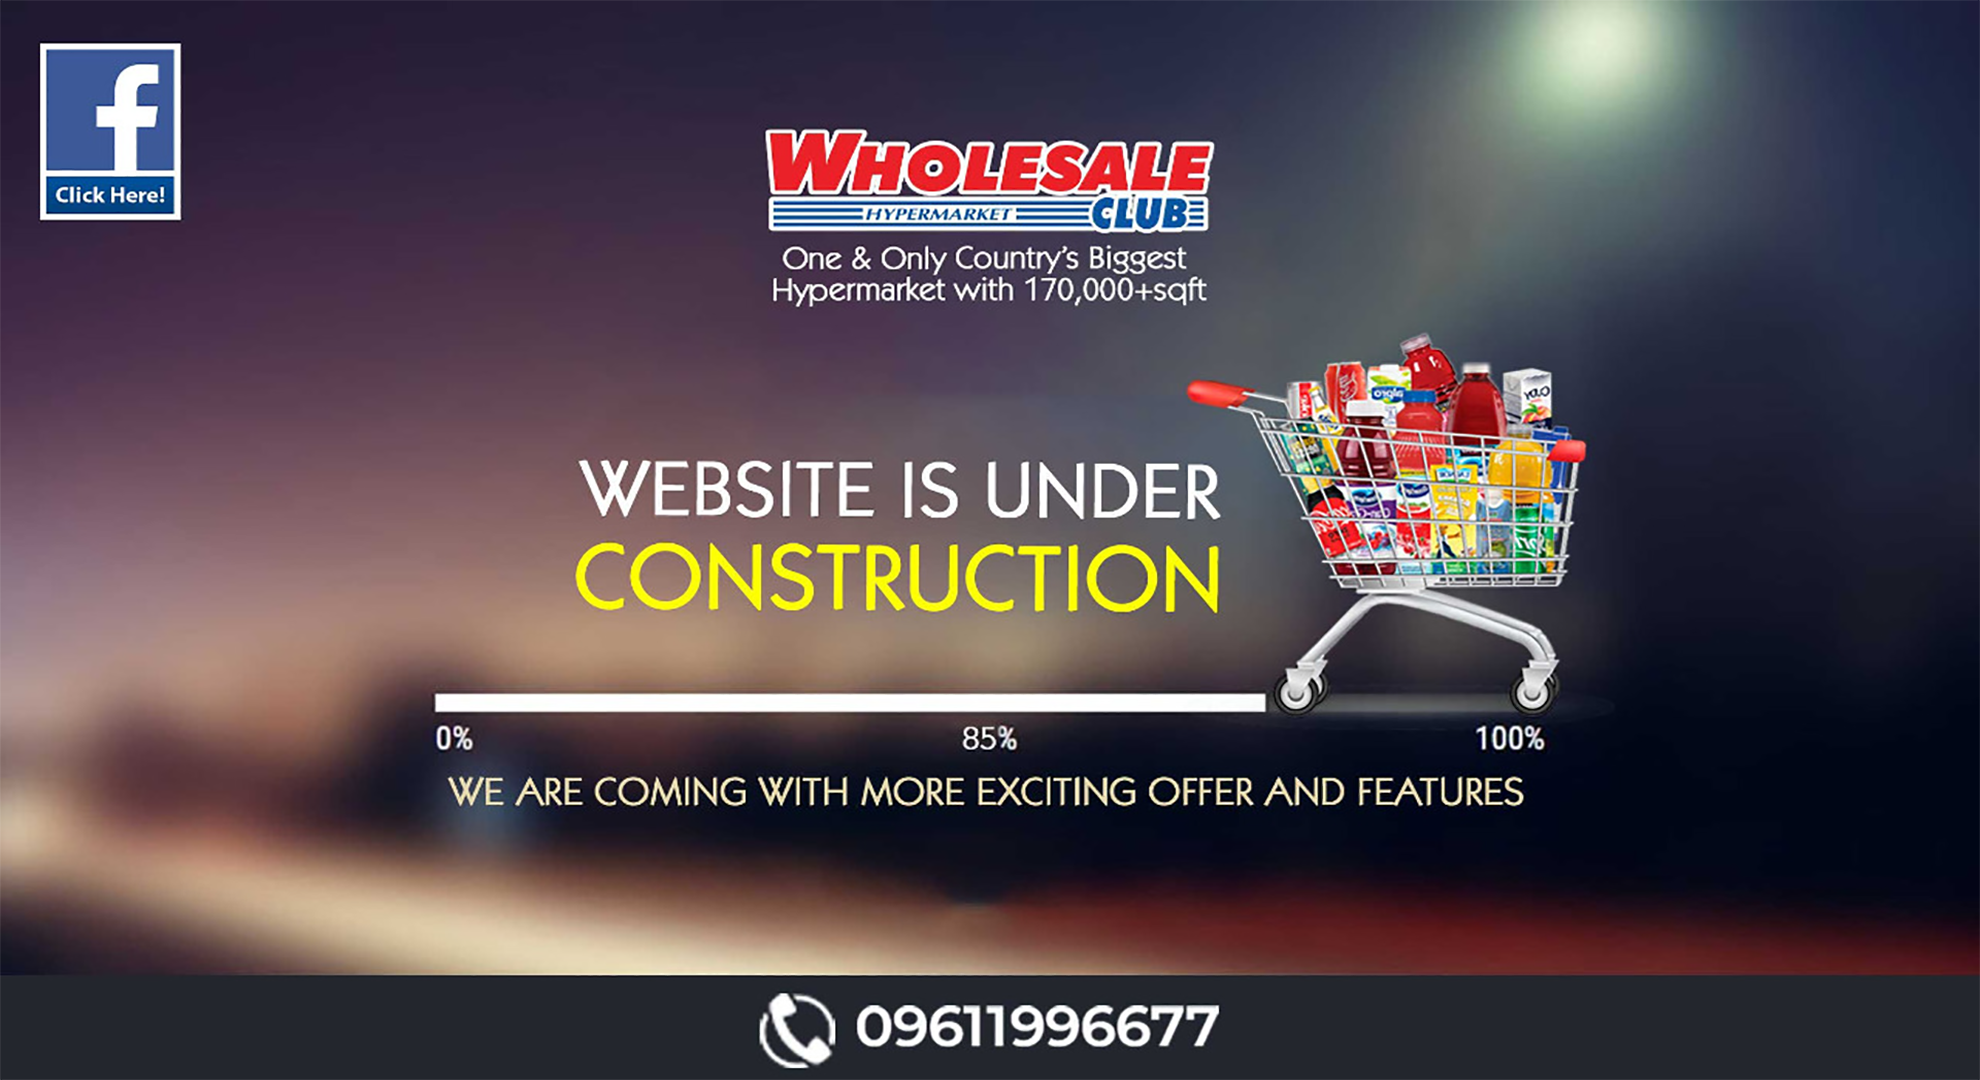
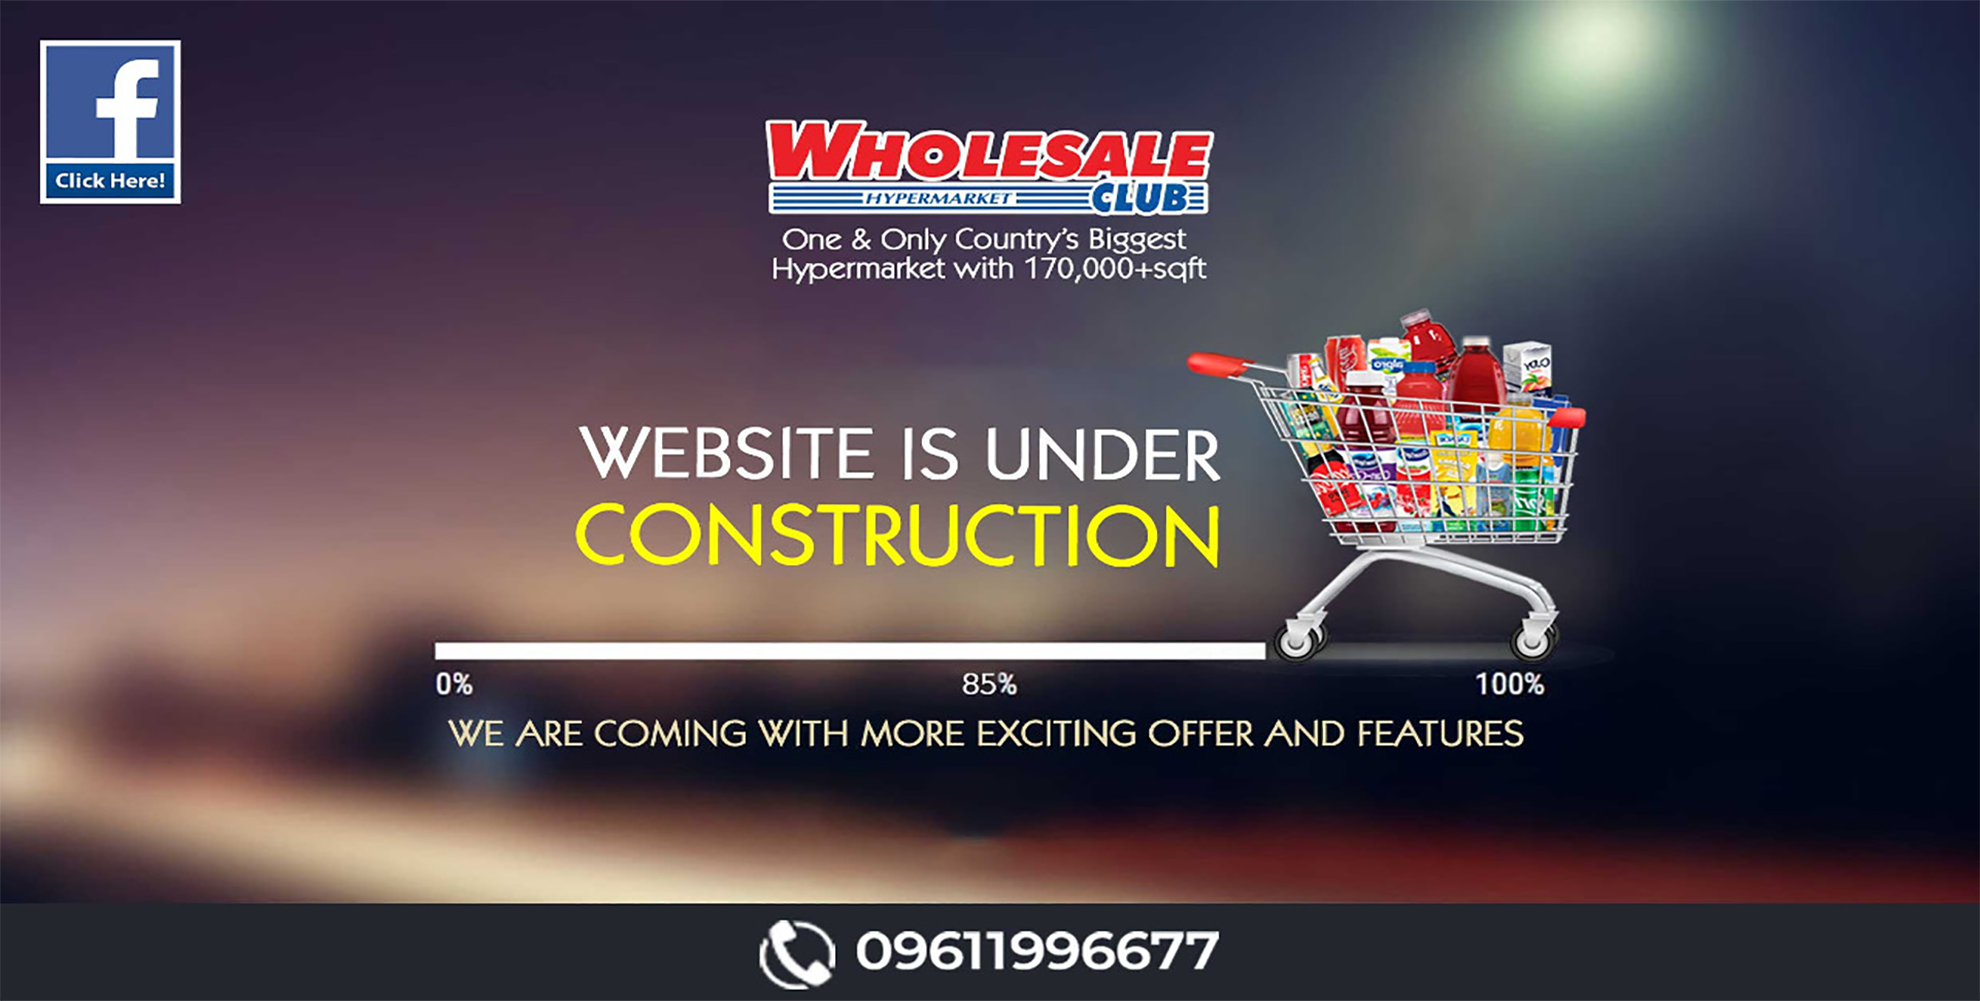
up

diff --git a/comming-soon.html b/comming-soon.html
@@ -5,24 +5,24 @@
     <meta charset="utf-8" />
     <meta name="viewport" content="width=device-width, initial-scale=1" />
     <title>Wholesale club</title>
-    <link rel="shortcut icon" href="./images/favicon.ico" type="image/x-icon" />
-    <link rel="icon" href="./images/favicon.ico" type="image/x-icon" />
-    <link rel="stylesheet" href="https://cdnjs.cloudflare.com/ajax/libs/font-awesome/6.2.0/css/all.min.css"
-        integrity="sha512-xh6O/CkQoPOWDdYTDqeRdPCVd1SpvCA9XXcUnZS2FmJNp1coAFzvtCN9BmamE+4aHK8yyUHUSCcJHgXloTyT2A=="
-        crossorigin="anonymous" referrerpolicy="no-referrer" />
-    <link href="https://fonts.googleapis.com/css?family=Roboto:300,300i,400,400i,500,500i,700,700i,900,900i"
-        rel="stylesheet" />
 
-    <link rel="stylesheet" href="./fonts/icofont.min.css">
-    <link rel="stylesheet" href="./fonts/arial-font.css" />
-    <link rel="stylesheet" href="./scss/bootstrap.min.css" />
-    <!-- for select2  -->
-    <link rel="stylesheet" href="./scss/select2.min.css">
-    <link rel="stylesheet" href="https://ajax.googleapis.com/ajax/libs/jqueryui/1.11.2/themes/smoothness/jquery-ui.css">
-    <link rel="stylesheet" href="./scss/slick.css">
-    <link rel="stylesheet" href="./scss/slick-theme.css">
-    <link rel="stylesheet" href="./scss/style.css" />
-    <link rel="stylesheet" href="./scss/responsive.css" />
+    <style>
+        body {
+            padding: 0;
+            margin: 0;
+            overflow: hidden;
+        }
+
+        body:hover {
+            padding: 0;
+            margin: 0;
+        }
+
+        .comminghome-main img {
+            width: 100%;
+            height: 100%;
+        }
+    </style>
 </head>
 
 <body>
@@ -33,12 +33,7 @@
     </section>
 
 
-    <script src="./js/jquery-3.6.1.min.js"></script>
-    <script src="https://cdnjs.cloudflare.com/ajax/libs/jqueryui/1.12.1/jquery-ui.min.js"></script>
-    <script src="./js/select2.min.js"></script>
-    <script src="./js/bootstrap.bundle.min.js"></script>
-    <script src="./js/slick.js"></script>
-    <script src="./js/custom.js"></script>
+
 
 </body>
 
